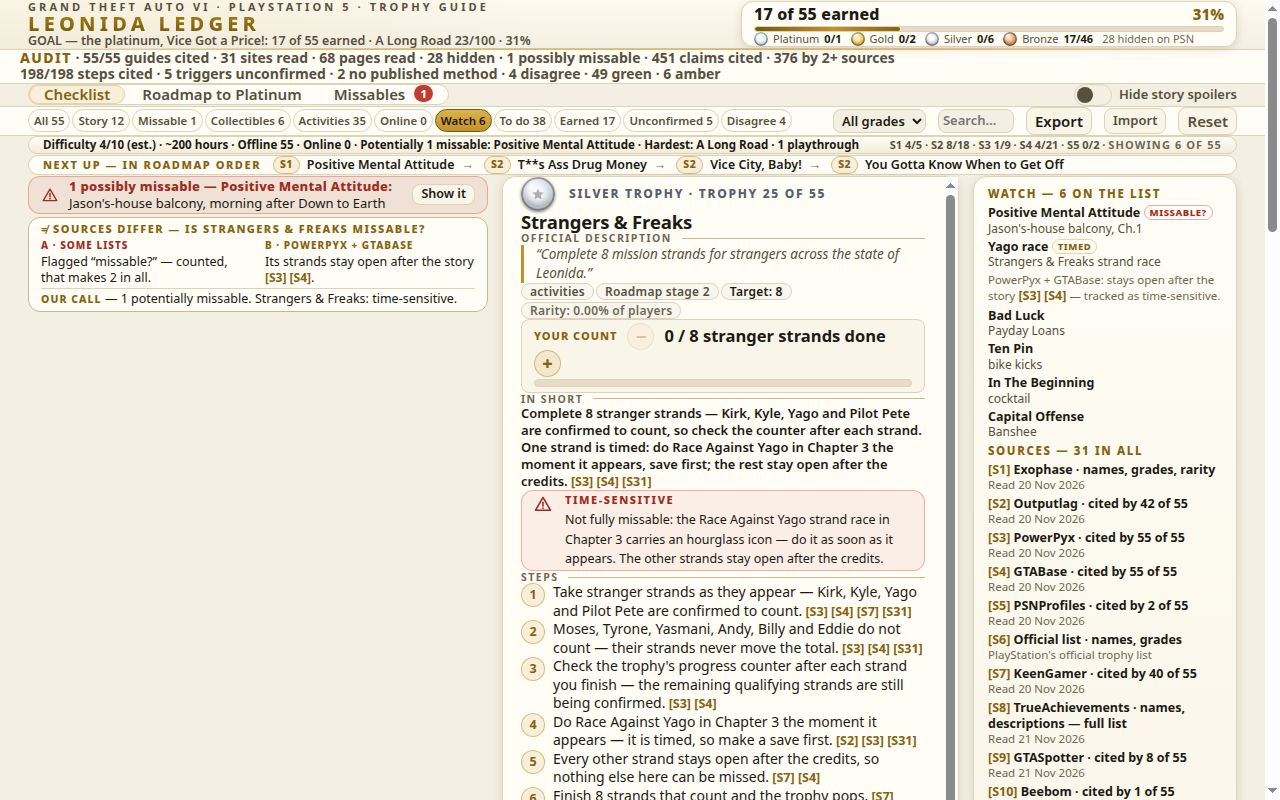
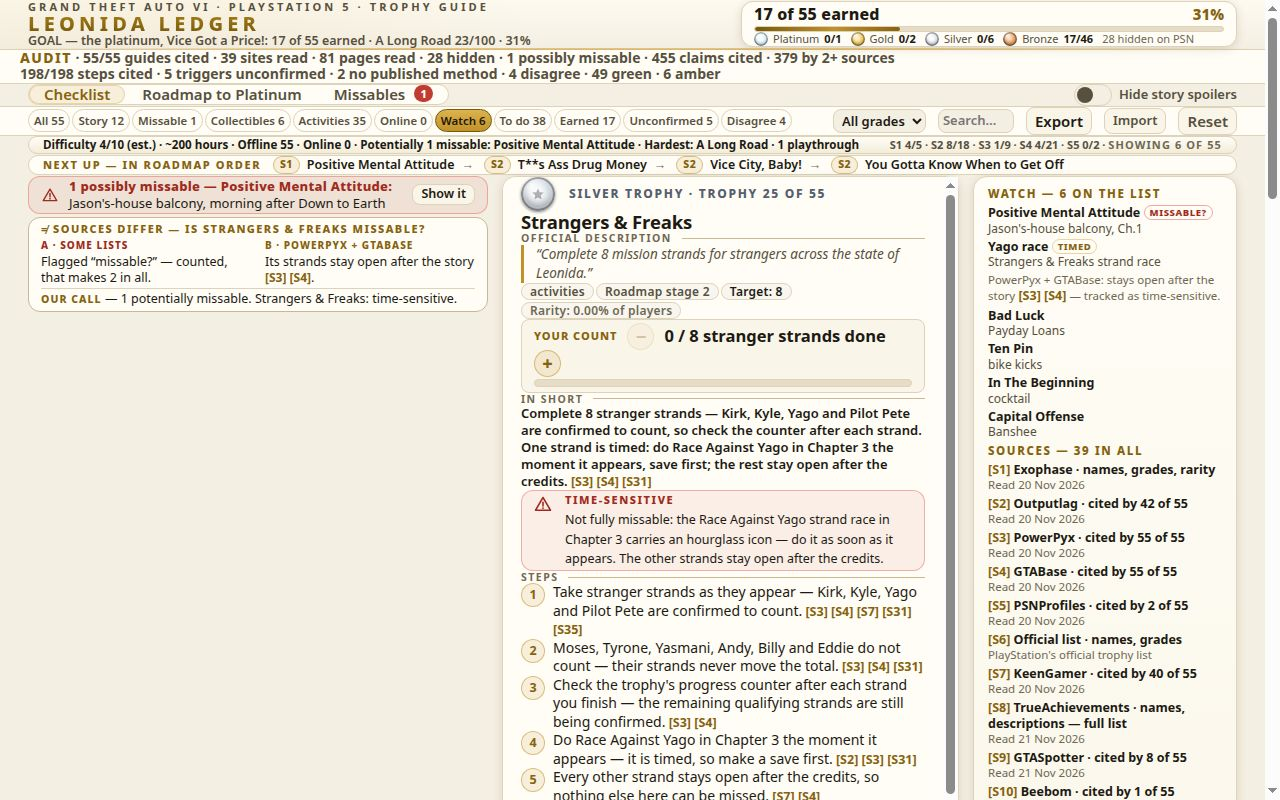
v31: batch-4 research — 39 sites, 81 pages, t46 method unlocked

Changed region(s): [[0.4062, 0.7812, 0.7188, 1.0], [0.9688, 0.25, 1.0, 0.2812], [0.25, 0.0625, 0.2812, 0.0938]]

diff --git a/app/app.js b/app/app.js
@@ -471,6 +471,19 @@ function rowDescription(text, clipLimit) {
    a disputed claim’s sole second backer; GameTrek is never cited for a
    chapter description, and Push Square’s two dissenting figures (a
    300-hour platinum, a 22-car wish list) are not used. */
+/* v31: eight more sites read in full (registry S32-S39) and 15 further pages
+   across the registry — 81 pages in all. games.gg prints a complete method
+   for Let’s Go Bowling, so that row’s steps and sentences are cited to it;
+   Game8’s Chapter 1 flags give the Strangers & Freaks counting verdict a
+   third named backer, and PowerPyx’s full walkthrough names Tyrone’s last
+   job. Two sites read this round are not in the registry at all —
+   PlayStation Universe credits its cheat list to Insider Gaming and a
+   lookalike domain compiles other sites’ lists — and Radio Times carries
+   no marker: its cheat page swaps two codes against every other list
+   read, so it stands as a full list only. AltChar credits its codes to
+   PowerPyx and corroborates only the cheat restrictions. The cheat
+   unlock requirements split the sources into two camps and are recorded
+   as a difference, not used. */
 const STEP_CITES = {
   1: { 1: 'S7', 2: ['S2', 'S3', 'S4'], 3: ['S7', 'S3', 'S4'] },
   2: { 1: ['S2', 'S3', 'S4'], 2: 'S7', 3: ['S3', 'S4'] },
@@ -481,34 +494,34 @@ const STEP_CITES = {
   7: { 1: ['S3', 'S7'], 2: ['S7', 'S21'], 3: ['S2', 'S3', 'S4'], 4: ['S3', 'S4'] },
   8: { 1: ['S3', 'S4'], 2: 'S7', 3: ['S3', 'S4'] },
   9: { 1: ['S3', 'S4'], 2: 'S7', 3: ['S3', 'S4'] },
-  10: { 1: ['S3', 'S4'], 2: 'S7', 3: ['S3', 'S4'] },
-  11: { 1: ['S3', 'S4'], 2: 'S7', 3: ['S3', 'S4'] },
-  12: { 1: ['S3', 'S4'], 2: 'S7', 3: ['S3', 'S4'] },
+  10: { 1: ['S3', 'S4'], 2: 'S7', 3: ['S3', 'S4', 'S36'] },
+  11: { 1: ['S3', 'S4'], 2: 'S7', 3: ['S3', 'S4', 'S36'] },
+  12: { 1: ['S3', 'S4'], 2: 'S7', 3: ['S3', 'S4', 'S36'] },
   13: { 1: ['S3', 'S4'], 2: 'S7', 3: ['S3', 'S4', 'S16'] },
   14: { 1: ['S2', 'S3', 'S4'], 2: ['S7', 'S23', 'S24'], 3: ['S7', 'S3'] },
   15: { 1: ['S3', 'S4'], 2: ['S7', 'S3'], 3: ['S2', 'S3', 'S4', 'S11'], 4: ['S3', 'S4', 'S11'], 5: 'S3' },
   16: { 1: ['S4', 'S15', 'S17'], 2: ['S4', 'S12'] },
-  17: { 1: ['S3', 'S4', 'S16', 'S17'], 2: ['S7', 'S4'], 3: ['S2', 'S3', 'S4', 'S16', 'S17', 'S24', 'S11'] },
+  17: { 1: ['S3', 'S4', 'S16', 'S17'], 2: ['S7', 'S4'], 3: ['S2', 'S3', 'S4', 'S16', 'S17', 'S24', 'S11', 'S34'] },
   18: { 1: ['S2', 'S3', 'S4', 'S17'], 2: ['S7', 'S3'], 3: ['S3', 'S7'] },
   19: { 1: ['S3', 'S4', 'S7'], 2: ['S3', 'S4'], 3: ['S7', 'S21'] },
   20: { 1: 'S2', 2: ['S3', 'S4'], 3: 'S7' },
   21: { 1: ['S3', 'S4'], 2: ['S3', 'S4', 'S7'], 3: ['S3', 'S4', 'S24'] },
   22: { 1: ['S2', 'S4'], 2: ['S3', 'S4'], 3: ['S3', 'S4'] },
-  23: { 1: ['S3', 'S4', 'S11', 'S15'], 2: ['S7', 'S26'], 3: ['S3', 'S4', 'S15', 'S2'] },
+  23: { 1: ['S3', 'S4', 'S11', 'S15', 'S32'], 2: ['S7', 'S26'], 3: ['S3', 'S4', 'S15', 'S2', 'S32'] },
   24: { 1: ['S4', 'S16'], 2: ['S7', 'S26'], 3: ['S3', 'S4', 'S24'] },
-  25: { 1: ['S3', 'S4', 'S7', 'S31'], 2: ['S3', 'S4', 'S31'], 3: ['S3', 'S4'], 4: ['S2', 'S3', 'S31'], 5: ['S7', 'S4'], 6: ['S7', 'S18'] },
+  25: { 1: ['S3', 'S4', 'S7', 'S31', 'S35'], 2: ['S3', 'S4', 'S31'], 3: ['S3', 'S4'], 4: ['S2', 'S3', 'S31'], 5: ['S7', 'S4'], 6: ['S7', 'S18'] },
   26: { 1: ['S3', 'S4', 'S15', 'S2'], 2: ['S7', 'S26'], 3: ['S3', 'S4'] },
-  27: { 1: ['S2', 'S4'], 2: ['S4', 'S24'], 3: ['S3', 'S4', 'S15'] },
+  27: { 1: ['S2', 'S4'], 2: ['S4', 'S24', 'S3'], 3: ['S3', 'S4', 'S15'] },
   28: { 1: ['S2', 'S3', 'S7', 'S11', 'S26', 'S24'], 2: ['S3', 'S7', 'S10', 'S11', 'S18', 'S26', 'S24'], 3: ['S2', 'S3', 'S4', 'S30'], 4: ['S3', 'S10', 'S11', 'S26', 'S24'], 5: ['S3', 'S10', 'S11', 'S26', 'S24'], 6: ['S3', 'S10', 'S11', 'S26'], 7: ['S3', 'S10', 'S11', 'S26'], 8: ['S3', 'S10', 'S11', 'S26', 'S24'], 9: ['S3', 'S10', 'S11', 'S26'], 10: ['S3', 'S10', 'S11', 'S26', 'S24'], 11: ['S3', 'S10', 'S11', 'S26', 'S24'], 12: ['S3', 'S10', 'S11', 'S26'], 13: ['S3', 'S7', 'S24', 'S26'] },
   29: { 1: ['S7', 'S15'], 2: ['S2', 'S4', 'S3'], 3: ['S2', 'S17'] },
-  30: { 1: ['S7', 'S9'], 2: ['S4', 'S9', 'S11'], 3: ['S3', 'S4', 'S9', 'S11', 'S18', 'S24'] },
+  30: { 1: ['S7', 'S9'], 2: ['S4', 'S9', 'S11'], 3: ['S3', 'S4', 'S9', 'S11', 'S18', 'S24', 'S32'] },
   31: { 1: ['S7', 'S11'], 2: ['S3', 'S4', 'S7', 'S11', 'S16'], 3: ['S3', 'S4'] },
-  32: { 1: ['S2', 'S4', 'S26'], 2: ['S3', 'S4'], 3: ['S2', 'S3', 'S4', 'S9', 'S26'] },
+  32: { 1: ['S2', 'S4', 'S26'], 2: ['S3', 'S4'], 3: ['S2', 'S3', 'S4', 'S9', 'S26', 'S32', 'S34'] },
   33: { 1: 'S4', 2: ['S2', 'S4'], 3: ['S2', 'S4'], 4: ['S3', 'S4', 'S17'] },
   34: { 1: ['S3', 'S4', 'S7'], 2: ['S2', 'S3', 'S4'], 3: ['S2', 'S21'], 4: ['S2', 'S3', 'S4', 'S18'], 5: ['S3', 'S4', 'S15', 'S17'] },
   35: { 1: ['S2', 'S3', 'S4'], 2: ['S3', 'S4', 'S7'], 3: ['S2', 'S3', 'S4', 'S11'] },
   36: { 1: ['S3', 'S4', 'S7'], 2: ['S2', 'S3', 'S4'], 3: ['S2', 'S4'], 4: 'S3' },
-  37: { 1: ['S3', 'S4'], 2: ['S2', 'S3', 'S4', 'S17'], 3: ['S2', 'S3', 'S4', 'S17'] },
+  37: { 1: ['S3', 'S4'], 2: ['S2', 'S3', 'S4', 'S17', 'S32'], 3: ['S2', 'S3', 'S4', 'S17', 'S32'] },
   38: { 1: 'S3', 2: ['S2', 'S3', 'S4', 'S15', 'S16'], 3: 'S7', 4: ['S2', 'S4'] },
   39: { 1: ['S2', 'S3', 'S4', 'S16'], 2: ['S2', 'S4'], 3: ['S2', 'S4'], 4: 'S3' },
   40: { 1: ['S2', 'S3', 'S4', 'S18'], 2: ['S2', 'S4'], 3: ['S2', 'S3', 'S4', 'S24'], 4: ['S3', 'S4'] },
@@ -517,16 +530,16 @@ const STEP_CITES = {
   43: { 1: ['S3', 'S4', 'S7'], 2: ['S2', 'S3', 'S4', 'S12'], 3: ['S2', 'S3', 'S4'] },
   44: { 1: ['S2', 'S4'], 2: 'S3', 3: 'S3' },
   45: { 1: 'S3', 2: 'S3', 3: ['S3', 'S4'], 4: ['S3', 'S7'] },
-  46: { 1: ['S2', 'S4'], 2: ['S2', 'S3', 'S4'], 3: ['S4', 'S3'] },
-  47: { 1: 'S2', 2: ['S2', 'S4', 'S17'], 3: ['S7', 'S26'], 4: 'S3' },
-  48: { 1: ['S3', 'S4', 'S7'], 2: ['S2', 'S12', 'S17', 'S18'], 3: ['S3', 'S4'], 4: ['S3', 'S4'] },
+  46: { 1: ['S2', 'S4', 'S32'], 2: ['S2', 'S3', 'S4', 'S32'], 3: ['S4', 'S3', 'S32'] },
+  47: { 1: 'S2', 2: ['S2', 'S4', 'S17', 'S32'], 3: ['S7', 'S26'], 4: 'S3' },
+  48: { 1: ['S3', 'S4', 'S7', 'S34'], 2: ['S2', 'S12', 'S17', 'S18', 'S34'], 3: ['S3', 'S4'], 4: ['S3', 'S4'] },
   49: { 1: ['S4', 'S3'], 2: 'S3', 3: ['S3', 'S4'], 4: ['S3', 'S2', 'S4'] },
   50: { 1: 'S3', 2: 'S3', 3: 'S3', 4: 'S3' },
   51: { 1: ['S3', 'S7'], 2: ['S3', 'S4'], 3: ['S4', 'S3'], 4: ['S3', 'S4'] },
   52: { 1: ['S2', 'S4'], 2: ['S2', 'S4'], 3: ['S2', 'S7'], 4: ['S3', 'S4'] },
   53: { 1: ['S3', 'S4', 'S7'], 2: ['S2', 'S21'], 3: ['S3', 'S4', 'S7'] },
-  54: { 1: ['S2', 'S3', 'S4'], 2: ['S2', 'S3', 'S4', 'S12', 'S18'], 3: ['S2', 'S3', 'S4', 'S18'] },
-  55: { 1: ['S2', 'S3', 'S4', 'S16'], 2: ['S2', 'S4'], 3: ['S2', 'S4'], 4: ['S3', 'S4'] },
+  54: { 1: ['S2', 'S3', 'S4'], 2: ['S2', 'S3', 'S4', 'S12', 'S18', 'S32'], 3: ['S2', 'S3', 'S4', 'S18', 'S32'] },
+  55: { 1: ['S2', 'S3', 'S4', 'S16', 'S32', 'S36'], 2: ['S2', 'S4', 'S32'], 3: ['S2', 'S4'], 4: ['S3', 'S4'] },
 };
 
 /* Guide-prose citations, same discipline as STEP_CITES: a marker only
@@ -544,9 +557,9 @@ const GUIDE_CITES = {
   7: { 1: ['S8', 'S21', 'S30', 'S24'], 2: ['S2', 'S3', 'S4'], 3: 'S4' },
   8: { 1: ['S6', 'S8', 'S30', 'S24'], 2: ['S3', 'S4'] },
   9: { 1: ['S6', 'S8', 'S30', 'S24'], 2: ['S3', 'S4'] },
-  10: { 1: ['S6', 'S8', 'S30', 'S24'], 2: ['S3', 'S4'] },
-  11: { 1: ['S6', 'S8', 'S30', 'S24'], 2: ['S3', 'S4'] },
-  12: { 1: ['S6', 'S8', 'S30', 'S24'], 2: ['S3', 'S4'] },
+  10: { 1: ['S6', 'S8', 'S30', 'S24'], 2: ['S3', 'S4', 'S36'] },
+  11: { 1: ['S6', 'S8', 'S30', 'S24'], 2: ['S3', 'S4', 'S36'] },
+  12: { 1: ['S6', 'S8', 'S30', 'S24'], 2: ['S3', 'S4', 'S36'], 4: 'S3' },
   13: { 1: ['S6', 'S8', 'S30', 'S24'], 2: ['S3', 'S4', 'S16'] },
   14: { 1: ['S8', 'S21', 'S30', 'S24'], 2: ['S2', 'S3', 'S4'], 3: ['S3', 'S4', 'S9', 'S11', 'S17', 'S18', 'S23', 'S24'], 4: ['S2', 'S3', 'S4', 'S30'] },
   15: { 1: ['S3', 'S11', 'S30', 'S24'], 2: ['S3', 'S4', 'S11'], 3: 'S4', 4: ['S4', 'S3'], 6: ['S2', 'S3', 'S4', 'S17', 'S18', 'S24', 'S30'] },
@@ -557,39 +570,39 @@ const GUIDE_CITES = {
   20: { 1: ['S8', 'S21', 'S30', 'S24'], 2: 'S2', 3: ['S3', 'S4'] },
   21: { 1: ['S8', 'S21', 'S30', 'S24'], 2: ['S3', 'S4', 'S24'], 3: 'S3', 4: 'S3' },
   22: { 1: ['S8', 'S21', 'S30', 'S24'], 2: ['S2', 'S4'], 3: ['S3', 'S4'], 4: 'S4' },
-  23: { 1: ['S8', 'S21', 'S30', 'S24'], 2: ['S3', 'S4', 'S11', 'S15', 'S2'], 3: ['S4', 'S15'], 4: ['S3', 'S4'] },
+  23: { 1: ['S8', 'S21', 'S30', 'S24'], 2: ['S3', 'S4', 'S11', 'S15', 'S2', 'S32'], 3: ['S4', 'S15', 'S32'], 4: ['S3', 'S4'] },
   24: { 1: ['S8', 'S21', 'S30', 'S24'], 2: ['S3', 'S4', 'S16'], 3: ['S3', 'S4'], 4: ['S4', 'S31'] },
-  25: { 1: ['S8', 'S4', 'S30', 'S24'], 2: ['S3', 'S4', 'S31'], 3: ['S3', 'S4', 'S31'], 4: ['S2', 'S3', 'S31'], 5: ['S3', 'S4'] },
+  25: { 1: ['S8', 'S4', 'S30', 'S24'], 2: ['S3', 'S4', 'S31', 'S35'], 3: ['S3', 'S4', 'S31'], 4: ['S2', 'S3', 'S31'], 5: ['S3', 'S4'] },
   26: { 1: ['S8', 'S21', 'S30', 'S24'], 2: ['S3', 'S4', 'S15', 'S24', 'S2'], 3: 'S4', 4: ['S3', 'S4'] },
   27: { 1: ['S8', 'S21', 'S30', 'S24'], 2: ['S3', 'S4', 'S15', 'S24'], 3: ['S2', 'S4', 'S15'], 4: ['S4', 'S31'] },
   28: { 1: ['S2', 'S3', 'S4', 'S10', 'S11', 'S26', 'S24'], 2: ['S3', 'S7', 'S24', 'S26'] },
   29: { 1: ['S8', 'S21', 'S30', 'S24'], 2: ['S3', 'S4', 'S15'], 3: ['S2', 'S4', 'S3'], 4: ['S2', 'S17'], 5: ['S3', 'S4', 'S15', 'S24', 'S2'], 6: ['S3', 'S4'] },
-  30: { 1: ['S6', 'S3', 'S30', 'S24'], 2: ['S3', 'S11'], 3: ['S3', 'S4'] },
+  30: { 1: ['S6', 'S3', 'S30', 'S24', 'S32'], 2: ['S3', 'S11'], 3: ['S3', 'S4'] },
   31: { 1: ['S6', 'S3', 'S30', 'S24'], 2: ['S11', 'S3'], 3: ['S3', 'S4', 'S11', 'S16', 'S24'] },
-  32: { 1: ['S26', 'S8', 'S30', 'S24'], 2: ['S2', 'S4'], 4: ['S2', 'S3', 'S4', 'S9', 'S24', 'S26'] },
+  32: { 1: ['S26', 'S8', 'S30', 'S24', 'S32', 'S34'], 2: ['S2', 'S4'], 4: ['S2', 'S3', 'S4', 'S9', 'S24', 'S26', 'S32', 'S34'] },
   33: { 1: ['S8', 'S21', 'S30', 'S24'], 2: ['S3', 'S4'], 3: ['S3', 'S4', 'S17'], 4: ['S2', 'S4'], 5: ['S2', 'S4'] },
   34: { 1: ['S8', 'S21', 'S30', 'S24'], 2: ['S8', 'S21'], 3: 'S2', 4: ['S3', 'S4', 'S15', 'S17', 'S18'], 5: ['S2', 'S3', 'S4', 'S18'] },
   35: { 1: ['S18', 'S8', 'S30', 'S24'], 2: ['S2', 'S3', 'S4', 'S18'], 4: ['S2', 'S3', 'S4', 'S11'] },
   36: { 1: ['S8', 'S21', 'S30', 'S24'], 2: ['S2', 'S3', 'S4'], 3: 'S4', 4: 'S4', 6: ['S2', 'S4'] },
-  37: { 1: 'S17', 2: ['S2', 'S3', 'S4'], 3: ['S2', 'S3', 'S4', 'S17'], 5: ['S2', 'S3', 'S4', 'S17'] },
+  37: { 1: 'S17', 2: ['S2', 'S3', 'S4', 'S32'], 3: ['S2', 'S3', 'S4', 'S17', 'S32'], 4: 'S32', 5: ['S2', 'S3', 'S4', 'S17', 'S32'] },
   38: { 1: ['S8', 'S21', 'S30', 'S24'], 2: ['S2', 'S3', 'S4', 'S15', 'S16'], 3: ['S3', 'S4'] },
   39: { 1: ['S8', 'S21', 'S30', 'S24'], 2: ['S2', 'S3', 'S4', 'S16'], 3: ['S2', 'S4', 'S18'], 4: ['S2', 'S4', 'S18'], 5: ['S2', 'S3', 'S4'] },
   40: { 1: ['S18', 'S24', 'S30'], 2: ['S2', 'S3', 'S4', 'S15', 'S18'], 3: ['S2', 'S4'], 4: ['S2', 'S4', 'S15'], 5: 'S4', 6: ['S4', 'S18'], 7: ['S2', 'S3', 'S4', 'S24'] },
   41: { 1: ['S3', 'S4', 'S30', 'S24'], 2: 'S4', 3: ['S2', 'S4'] },
   42: { 1: ['S5', 'S12'], 2: ['S3', 'S4'], 3: ['S12', 'S5'] },
-  43: { 1: ['S2', 'S3', 'S4', 'S12', 'S30', 'S24'], 3: 'S4', 4: ['S2', 'S3', 'S4', 'S24'] },
+  43: { 1: ['S2', 'S3', 'S4', 'S12', 'S30', 'S24'], 2: 'S32', 3: 'S4', 4: ['S2', 'S3', 'S4', 'S24'] },
   44: { 1: 'S3', 2: ['S2', 'S4'], 3: ['S2', 'S4'], 4: ['S2', 'S3', 'S4'] },
   45: { 1: ['S3', 'S4'], 2: 'S3', 3: ['S8', 'S21'], 4: ['S2', 'S4'], 5: ['S4', 'S9'] },
-  46: { 1: ['S2', 'S4'], 3: ['S2', 'S3', 'S4'], 4: 'S4', 5: 'S4' },
-  47: { 1: ['S26', 'S21'], 2: ['S2', 'S17'], 3: 'S4', 4: 'S4' },
-  48: { 1: ['S12', 'S21'], 2: 'S2', 3: 'S4', 4: 'S4' },
+  46: { 1: ['S2', 'S4'], 2: 'S32', 3: ['S2', 'S3', 'S4', 'S32'], 4: ['S4', 'S32'], 5: ['S4', 'S32'] },
+  47: { 1: ['S26', 'S21'], 2: ['S2', 'S17', 'S32'], 3: ['S4', 'S32'], 4: 'S4' },
+  48: { 1: ['S12', 'S21', 'S34'], 2: 'S2', 3: 'S4', 4: 'S4' },
   49: { 1: 'S4', 2: 'S3', 3: 'S2', 5: ['S3', 'S9'] },
   50: { 1: 'S3', 2: 'S3', 3: 'S3', 4: ['S2', 'S4'], 5: ['S4', 'S9'] },
   51: { 1: ['S26', 'S21', 'S30', 'S24'], 2: ['S3', 'S4'], 3: 'S3' },
   52: { 1: ['S7', 'S8', 'S30', 'S24'], 2: ['S3', 'S4'], 3: ['S2', 'S30'], 4: 'S4', 5: ['S2', 'S7'] },
   53: { 1: ['S8', 'S21', 'S30', 'S24'], 2: ['S2', 'S21'], 3: 'S4' },
-  54: { 1: ['S12', 'S15'], 2: ['S2', 'S3', 'S4', 'S15'], 3: ['S2', 'S3', 'S4', 'S18'] },
-  55: { 1: ['S8', 'S21', 'S30', 'S24'], 2: ['S2', 'S3', 'S4', 'S16'], 3: 'S4', 4: ['S2', 'S4'], 5: 'S4' },
+  54: { 1: ['S12', 'S15'], 2: ['S2', 'S3', 'S4', 'S15', 'S32'], 3: ['S2', 'S3', 'S4', 'S18', 'S32'] },
+  55: { 1: ['S8', 'S21', 'S30', 'S24'], 2: ['S2', 'S3', 'S4', 'S16', 'S32', 'S36'], 3: 'S4', 4: ['S2', 'S4'], 5: 'S4' },
 };
 
 /* IN SHORT citations, same discipline as the other two tables: the
@@ -608,9 +621,9 @@ const SHORT_CITES = {
   7: ['S3', 'S4'],
   8: ['S3', 'S4'],
   9: ['S3', 'S4'],
-  10: ['S3', 'S4'],
-  11: ['S3', 'S4'],
-  12: ['S3', 'S4'],
+  10: ['S3', 'S4', 'S36'],
+  11: ['S3', 'S4', 'S36'],
+  12: ['S3', 'S4', 'S36'],
   13: ['S3', 'S4'],
   14: ['S2', 'S3', 'S4'],
   15: ['S2', 'S3', 'S4'],
@@ -628,14 +641,14 @@ const SHORT_CITES = {
   27: ['S2', 'S4'],
   28: ['S2', 'S3', 'S4', 'S10', 'S11', 'S26'],
   29: ['S2', 'S3', 'S4'],
-  30: ['S3', 'S4'],
+  30: ['S3', 'S4', 'S32'],
   31: ['S2', 'S3', 'S4'],
-  32: ['S3', 'S4', 'S26'],
+  32: ['S3', 'S4', 'S26', 'S32', 'S34'],
   33: ['S2', 'S3', 'S4'],
   34: ['S2', 'S3', 'S4'],
   35: ['S2', 'S3', 'S4'],
   36: ['S2', 'S3', 'S4'],
-  37: ['S2', 'S3', 'S4'],
+  37: ['S2', 'S3', 'S4', 'S32'],
   38: ['S2', 'S3', 'S4'],
   39: ['S2', 'S3', 'S4'],
   40: ['S2', 'S3', 'S4'],
@@ -644,16 +657,16 @@ const SHORT_CITES = {
   43: ['S2', 'S3', 'S4'],
   44: ['S2', 'S3', 'S4'],
   45: ['S2', 'S3', 'S4'],
-  46: ['S2', 'S4'],
-  47: ['S2', 'S4'],
+  46: ['S2', 'S4', 'S32'],
+  47: ['S2', 'S4', 'S32'],
   48: ['S2', 'S3', 'S4'],
   49: ['S2', 'S3', 'S4'],
   50: 'S3',
   51: ['S3', 'S4'],
   52: ['S2', 'S3', 'S4'],
   53: ['S2', 'S4'],
-  54: ['S2', 'S3', 'S4'],
-  55: ['S2', 'S3', 'S4'],
+  54: ['S2', 'S3', 'S4', 'S32'],
+  55: ['S2', 'S3', 'S4', 'S32'],
 };
 
 /* The honesty boxes: the points no cited source has settled, stated
